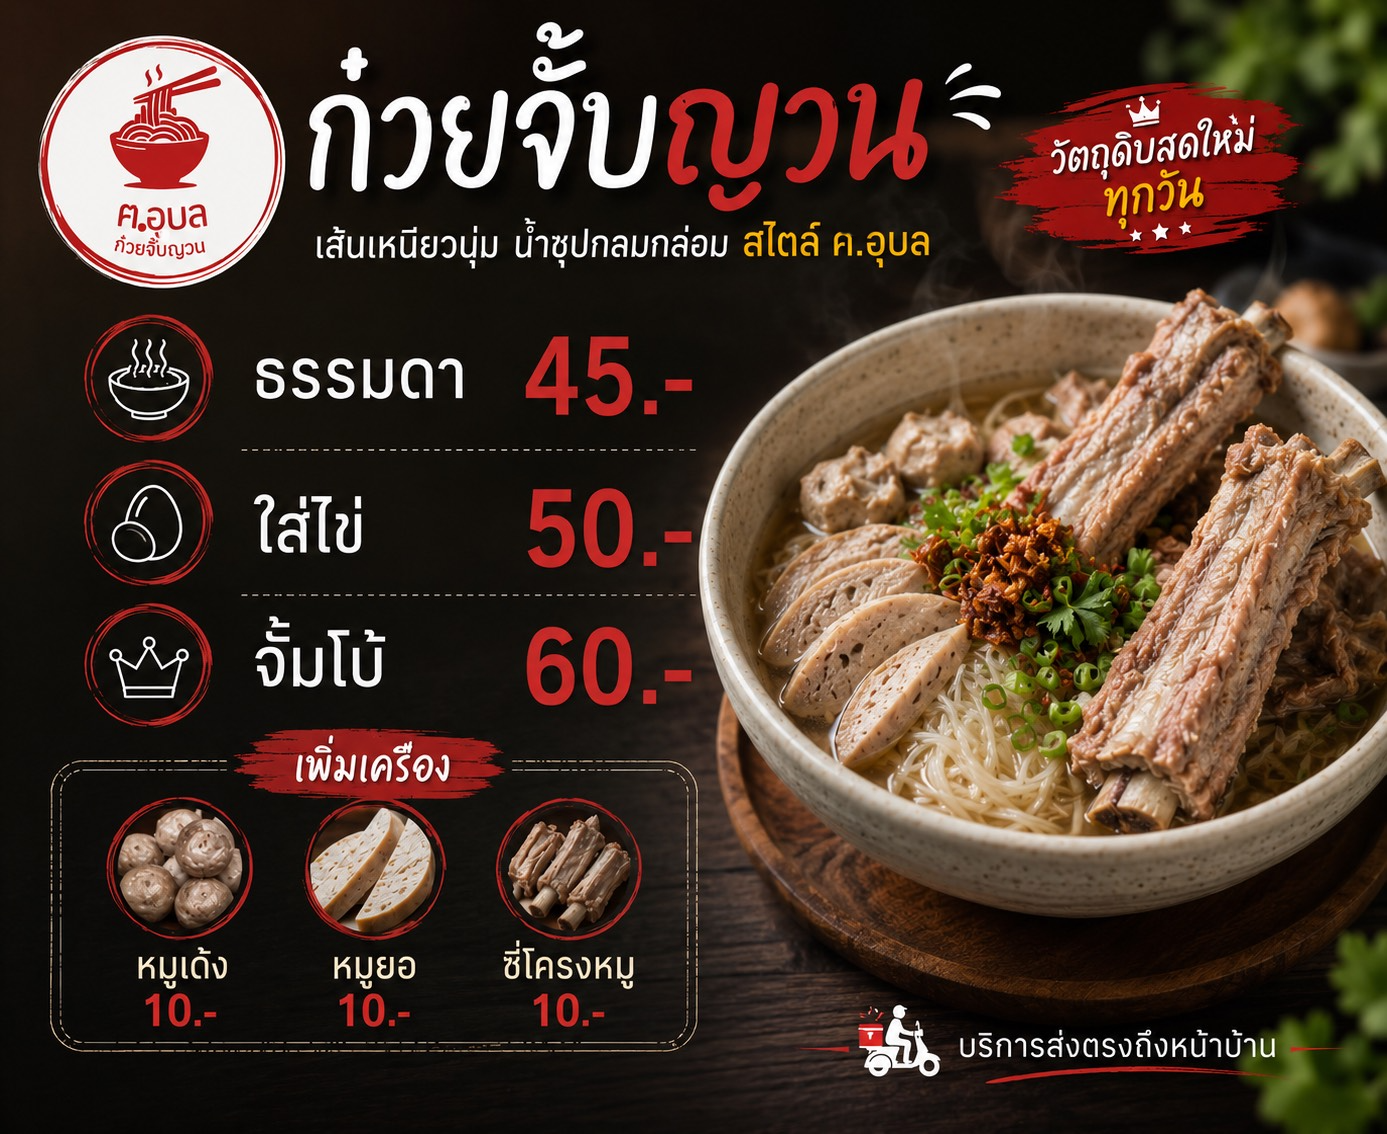
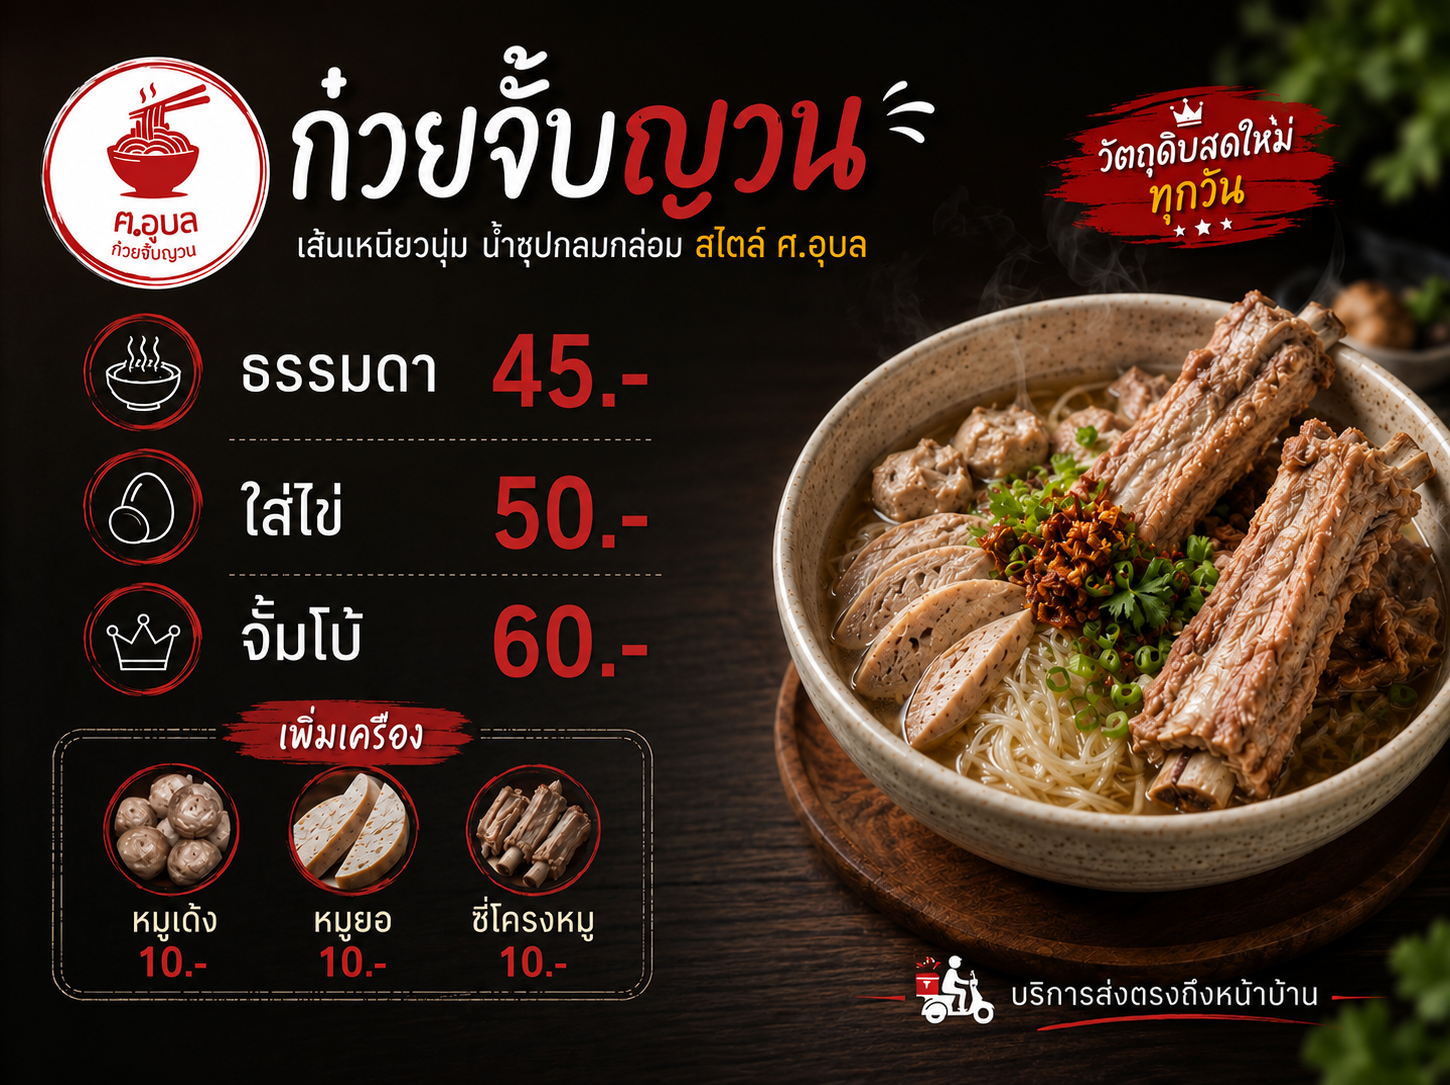
Add files via upload

diff --git a/index.html b/index.html
@@ -3,7 +3,7 @@
 <head>
 <meta charset="UTF-8">
 <meta name="viewport" content="width=device-width, initial-scale=1.0">
-<title>ศ.อุบล ก๋วยจั๊บญวน 🍲 สั่งได้เลย!</title>
+<title>ฅ.อุบล ก๋วยจั๊บญวน 🍲 สั่งได้เลย!</title>
 <link href="https://fonts.googleapis.com/css2?family=Noto+Sans+Thai:wght@300;400;600;700;900&display=swap" rel="stylesheet">
 <link rel="stylesheet" href="styles.css">
 <link rel="icon" type="image/png" href="logo.png">
@@ -13,8 +13,8 @@
 <!-- ════ HEADER ════ -->
 <div class="header">
   <img class="logo" src="logo.png" alt="ศ.อุบล ก๋วยจั๊บญวน">
-  <h1>ศ.อุบล<span>ก๋วยจั๊บญวน</span></h1>
-  <p class="header-sub">เส้นเหนียวนุ่ม น้ำซุปกลมกล่อม สไตล์ ศ.อุบล</p>
+  <h1>ฅ.อุบล<span>ก๋วยจั๊บญวน</span></h1>
+  <p class="header-sub">เส้นเหนียวนุ่ม น้ำซุปกลมกล่อม สไตล์ คนอุบล</p>
 </div>
 
 <!-- ════ INFO BAR ════ -->
@@ -58,10 +58,10 @@
 <!-- ════ FOOTER ════ -->
 <div class="footer">
   <div class="contact-row">
-    <span>🏠 ศ.อุบล ก๋วยจั๊บญวน</span>
+    <span>🏠 ฅ.อุบล ก๋วยจั๊บญวน</span>
     <span>📞 <a href="tel:0000000000">โทร: 0XX-XXX-XXXX</a></span>
   </div>
-  © 2026 ศ.อุบล ก๋วยจั๊บญวน | สั่งง่าย ส่งไว ถึงบ้านครับ
+  © 2026 ฅ.อุบล ก๋วยจั๊บญวน | สั่งง่าย ส่งไว ถึงบ้านครับ
 </div>
 
 <!-- ════ LINE FAB ════ -->
